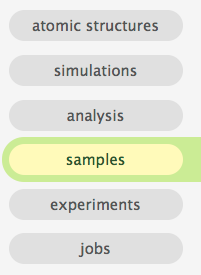
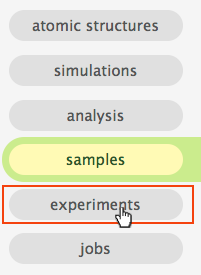
docs/Tutorial-bvk-to-experiment.rst: completed with the section about virtual neutron experiment.
git-svn-id: svn://danse.us/VNET/vnf/branches/beta-useluban/vnfb@2684 056da4b6-1853-4d91-9082-68a8d0adb2e4

Changed region(s): [[0.0, 0.6691, 0.9851, 0.8436]]

diff --git a/docs/Tutorial-bvk-to-experiment.rst b/docs/Tutorial-bvk-to-experiment.rst
@@ -33,7 +33,7 @@ In phonons simulation wizard:
 * :ref:`choose the bvk model from literature <tut-bvk2exp-selectbvkmodel>`
 * :ref:`input N1 and df for bvk phonons computation <tut-bvk2exp-inputbvkparams>`
 
-Computation job:
+BvK computation job:
 
 * :ref:`submit job <tut-bvk2exp-submitjob>`
 * :ref:`pack job dir <tut-bvk2exp-packjobdir>`
@@ -49,31 +49,24 @@ Sample
 * :ref:`add a phonon kernel <tut-bvk2exp-newsample-kernel>`
 
 
-experiment
-* start new
-* instrument
- * select ARCS, show large number of components
- * show we can change component
- * back to select Ideal INS.
- * change source to neutrons saved at just before ARCS sample position
- * change sample position and monitor position to 0,0,0
- * change IQEmonitor to use Ei=60
-* sample configuration
- * select a sample
- * further configuration of kernel. make sure ei=60
-* sampele environment
-* review and finish up
+Experiment
+
+* :ref:`start a new experiment <tut-bvk2exp-experiment-new>`
+* :ref:`configure instrument <tut-bvk2exp-experiment-selectinstrument>`
+* :ref:`configure sample <tut-bvk2exp-experiment-selectsample>`
+* :ref:`configure sample environment <tut-bvk2exp-experiment-sampleenvironement>`
+* :ref:`review and finish up <tut-bvk2exp-experiment-finish>`
 
 
 
-We start from log in.
+We start with logging in.
 
 .. _tut-bvk2exp-login:
 
 Log in
 ------
 
-Point your browser to https://vnf.caltech.edu/vnf/beta
+Point your browser to https://vnf.caltech.edu
 
 Then login with your username and password.
 
@@ -207,8 +200,8 @@ Please input parameters for bvk phonons computation as shown below:
 
 After this step, a computation job is created for you.
 
-Computation job
----------------
+BvK Computation job
+-------------------
 
 
 .. _tut-bvk2exp-submitjob:
@@ -364,17 +357,155 @@ sample:
 Run a virtual neutron experiment using the new sample
 -----------------------------------------------------
 
+Select on the "experiments" of the main menu on the left side:
 
-* start new
-* instrument
- * select ARCS, show large number of components
- * show we can change component
- * back to select Ideal INS.
- * change source to neutrons saved at just before ARCS sample position
- * change sample position and monitor position to 0,0,0
- * change IQEmonitor to use Ei=60
-* sample configuration
- * select a sample
- * further configuration of kernel. make sure ei=60
-* sampele environment
-* review and finish up
+.. image:: /shots/bvk/main-portlet-select-experiments.png
+
+
+.. _tut-bvk2exp-experiment-new:
+
+Start a new experiment
+^^^^^^^^^^^^^^^^^^^^^^
+
+Let us create a new experiment by clicking the "new" button 
+on the toolbar near the top:
+
+.. image:: /shots/bvk/experiments-new.png
+
+
+.. _tut-bvk2exp-experiment-selectinstrument:
+
+Choose and Configure instrument
+^^^^^^^^^^^^^^^^^^^^^^^^^^^^^^^
+Select the "Ideal Inelastic Neutron Scattering Instrument ..." and
+click the "continue" button:
+
+.. image:: /shots/bvk/experiment-select-idealins.png
+
+In the configuration panel for the source component of this
+instrument,
+click on the "change component type" selector and choose
+"NeutronPlayer" from the list:
+
+.. image:: /shots/bvk/experiment-instrument-change-source-type.png
+
+Now click the "edit" link in the new panel for the neutron player:
+
+.. image:: /shots/bvk/experiment-instrument-source-edit.png
+
+Near the bottom of the form for configuring the neutron player, click 
+on the selector for "Neutrons"  to select the item
+"neutrons at sample position of ARCS instrument. Ei~60meV".
+
+.. image:: /shots/bvk/experiment-instrument-neutronplayer-choose-neutrons.png
+
+A panel with information of first few neutrons in the neutron storage
+will show up. Click the "save" button to continue.
+
+.. image:: /shots/bvk/experiment-instrument-neutronplayer-selected-neutrons-and-save.png
+
+Now select the "sample" component from the component chain:
+
+.. image:: /shots/bvk/experiment-instrument-to-select-samplecomponent.png
+
+Again, click the "edit" link, and in the form for the sample
+component, make sure to change position of the sample to (0,0,0),
+and then click the "save" button.
+
+.. image:: /shots/bvk/experiment-instrument-sample-position.png
+
+Next, let us turn to the last component, "monitor":
+
+.. image:: /shots/bvk/experiment-instrument-to-select-monitorcomponent.png
+
+Click the "edit" link and make sure to change the position of the
+monitor to (0,0,0) and Ei to 60.0 meV.
+
+.. image:: /shots/bvk/experiment-instrument-monitor-config.png
+
+and click the "save" button to save your changes
+
+.. image:: /shots/bvk/experiment-instrument-monitor-saveconfig.png
+
+Now we are done with configuration of the instrument, just click the
+"continue" button
+
+.. image:: /shots/bvk/experiment-instrument-done.png
+
+
+.. _tut-bvk2exp-experiment-selectsample:
+
+Choose and Configure Sample
+^^^^^^^^^^^^^^^^^^^^^^^^^^^
+Please select the sample you created earlier and click the "continue"
+button.
+Again, you can use the filter control to find your sample.
+
+.. image:: /shots/bvk/experiment-select-sample.png
+
+We need to slightly change the kernel configuration. Click the "edit"
+button
+as shown below:
+
+.. image:: /shots/bvk/experiment-sample-toeditkernel.png
+
+and change Ei to 60 meV and click the "save" button.
+
+.. image:: /shots/bvk/experiment-sample-editkernel.png
+
+Now we are done with configuration of the sample, just click the
+"continue" button 
+
+.. image:: /shots/bvk/experiment-sample-done.png
+
+.. _tut-bvk2exp-experiment-sampleenvironement:
+
+Configure sample environment
+^^^^^^^^^^^^^^^^^^^^^^^^^^^^
+There is not much to do with sample environment at this point;
+just click the "save" button and then the "continue" button:
+
+.. image:: /shots/bvk/experiment-sampleenv-done.png
+
+
+.. _tut-bvk2exp-experiment-finish:
+
+Review and finish up
+^^^^^^^^^^^^^^^^^^^^
+
+This is the last step for setting up an experiment.
+Please give the experiment a description and click the
+"save" button and then the "continue" button.
+
+.. image:: /shots/bvk/experiment-finish-config.png
+
+You will be presented with a summary of the experiment.
+Click on the "^" symbol on the left top corner of the panel
+to shrink the panel down
+
+.. image:: /shots/bvk/experiment-finish-summary.png
+
+Click the "create job" button to create the computation job for 
+this experiment.
+
+.. image:: /shots/bvk/experiment-finish-tocreatejob.png
+
+The job configuration form shows up; please give the computation
+job a description and then click the "submit" button
+
+.. image:: /shots/bvk/experiment-job-config.png
+
+This job will take a moment to submit. After submission, 
+a panel for the job will show up. You can click the "refresh"
+button to update that view. 
+When the job is done, click on 
+the button "switch to the view of ..." to view the neutron experiment.
+
+.. image:: /shots/bvk/experiment-jobview-toswitchtoexp.png
+
+In the neutron experiment view, expand the "results" panel
+and then the "histogram" panel inside, you will get a view of the 
+I(Q,E) spectrum recorded by the virtual monitor:
+
+.. image:: /shots/bvk/experiment-view-results-expanded.png
+
